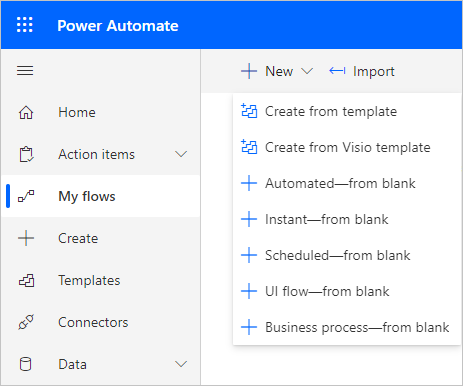
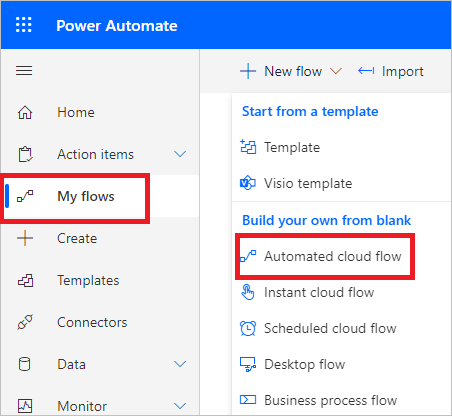
Power automate page

diff --git a/CloudAppSecurityDocs/flow-integration.md b/CloudAppSecurityDocs/flow-integration.md
@@ -1,7 +1,7 @@
 ---
 title: Integrate Microsoft Power Automate with Microsoft Cloud App Security to get custom alert automation
 description: This article provides information about how to get custom alert automation by integrating Microsoft Power Automate with Cloud App Security.
-ms.date: 01/05/2021
+ms.date: 06/02/2021
 ms.topic: how-to
 ---
 # Integrate with Microsoft Power Automate for custom alert automation
@@ -24,7 +24,7 @@ The [Cloud App Security connector](/connectors/cloudappsecurity/) in Power Autom
 
 1. [Create an API token](api-authentication.md) in Cloud App Security.
 
-2. Navigate to the [Power Automate portal](https://flow.microsoft.com), select **My flows**, select **New**, and from the drop-down, select **Automated - from blank**.
+2. Navigate to the [Power Automate portal](https://flow.microsoft.com), select **My flows**, select **New flow**, and in the drop-down, under **Build your own from blank**, select **Automated cloud flow**.
 
     ![Power Automate create new flow](media/flow-create-new.png)
 
@@ -32,7 +32,9 @@ The [Cloud App Security connector](/connectors/cloudappsecurity/) in Power Autom
 
     ![Power Automate when an alert is generated](media/flow-when-alert.png)
 
-4. Under **Authentication settings**, paste the API token from step 1.
+4. Under **Authentication settings**, paste the API token from step 1. Give your connection a name and select **Create**.
+
+    ![Power Automate add token](media/add-token.png)
 
 5. Define the workflow that should be triggered when a policy in Cloud App Security generates an alert. You can add an action, logical condition, switch case conditions or loops and save the playbook.
 
